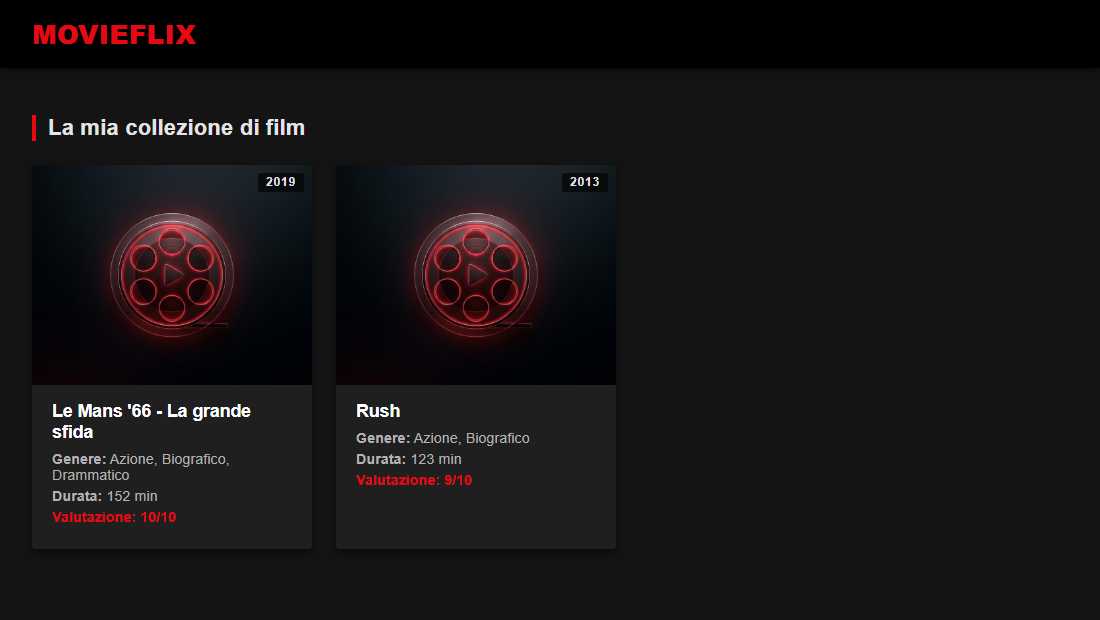
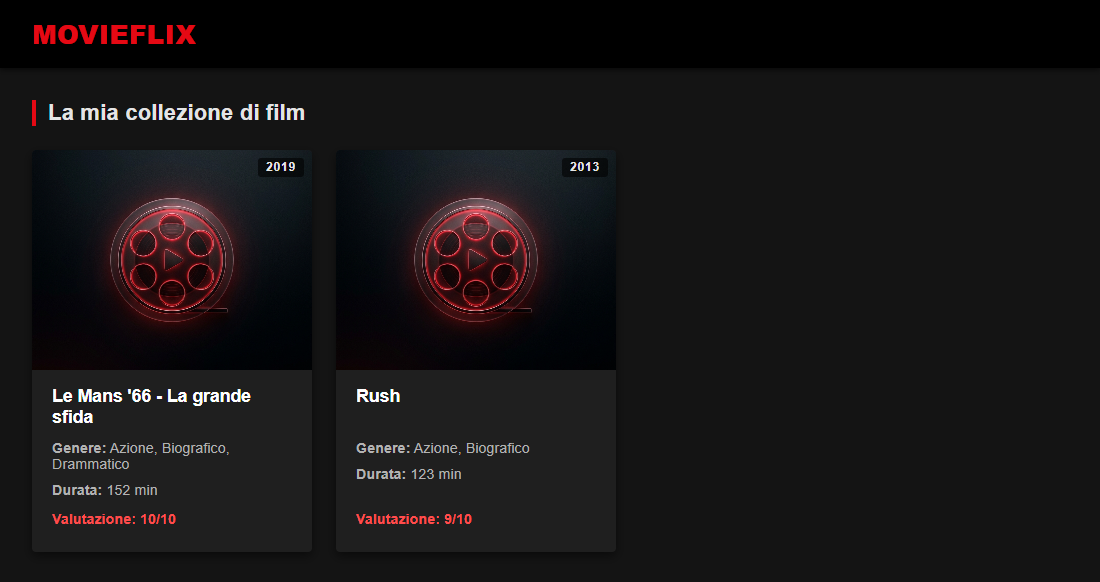
docs: aggiorna README con le nuove funzionalità e screenshot

diff --git a/README.md b/README.md
@@ -12,6 +12,9 @@ Nessun framework, nessuna dipendenza esterna, nessun database: solo PHP 8 e clas
 - Supporto a generi multipli per ogni film, con elenco generato dinamicamente (`getGenresList()`)
 - Trait `Rateable` riutilizzabile per aggiungere un sistema di valutazione (voto da 1 a 10) a qualsiasi classe, con validazione dell'intervallo e gestione della proprietà non ancora inizializzata
 - Metodo `getFullDetails()` per ottenere una descrizione testuale completa del film
+- Markup semantico e accessibile: lista film come `<ul>`/`<li>`, skip link per saltare al contenuto principale, testo alternativo delle locandine generato dal titolo del film
+- Layout responsive con meta viewport e fogli di stile basati su variabili CSS (colori, ombre) per una gestione centralizzata del tema
+- Card con altezza del titolo fissa, in modo che le righe Genere/Durata/Voto siano allineate tra le card anche con titoli di lunghezza diversa
 
 ## 📸 Screenshot
 
@@ -44,7 +47,7 @@ La traccia suggeriva inoltre di curare l'organizzazione del codice suddividendol
 ## 🛠 Stack tecnico
 
 - PHP 8 (nessun framework), con type hinting su proprietà e costruttori
-- HTML5 / CSS3
+- HTML5 semantico e accessibile / CSS3 con variabili custom
 - Programmazione a oggetti: classi, trait, incapsulamento delle proprietà
 
 ## 📁 Struttura del progetto
